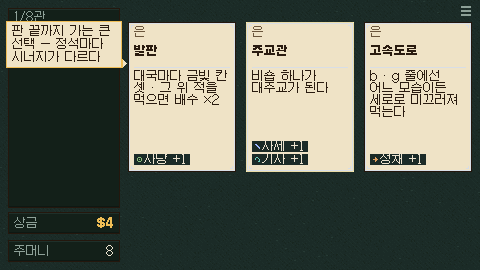
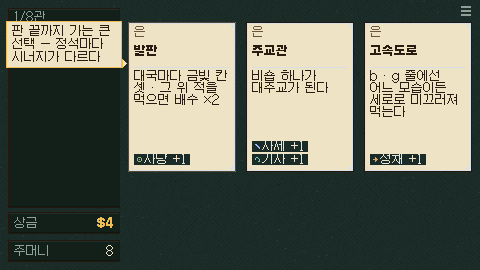
정석 처음 안내가 첫 카드를 가리키게 했다 — 안내가 왼쪽 칸에서 오른쪽을 가리키게 되어, 가운데 카드를 가리키면 화살표가 첫 카드에 닿았다

diff --git a/src/ui/screens/draft.js b/src/ui/screens/draft.js
@@ -76,7 +76,8 @@ export class DraftScreen {
       if (picked) { const k = Math.min(1, (this.t - this.chosen.t) / 0.3); ctx.globalAlpha = 0.5 * (1 - k); rect(ctx, x, y, CW, CH, PAL.white); ctx.globalAlpha = 1; }
       ctx.globalAlpha = 1;
     });
-    if (!this.chosen && this.t > 1.2) hint(this.app, 'draft', 'draft:1');
+    // 안내는 왼쪽 칸에서 오른쪽을 가리키므로 바로 옆 첫 카드에(정석 고르기 전체에 대한 한 줄)
+    if (!this.chosen && this.t > 1.2) hint(this.app, 'draft', 'draft:0');
   }
   key(k) {
     if (/^[1-3]$/.test(k)) this.pick(Number(k) - 1);
